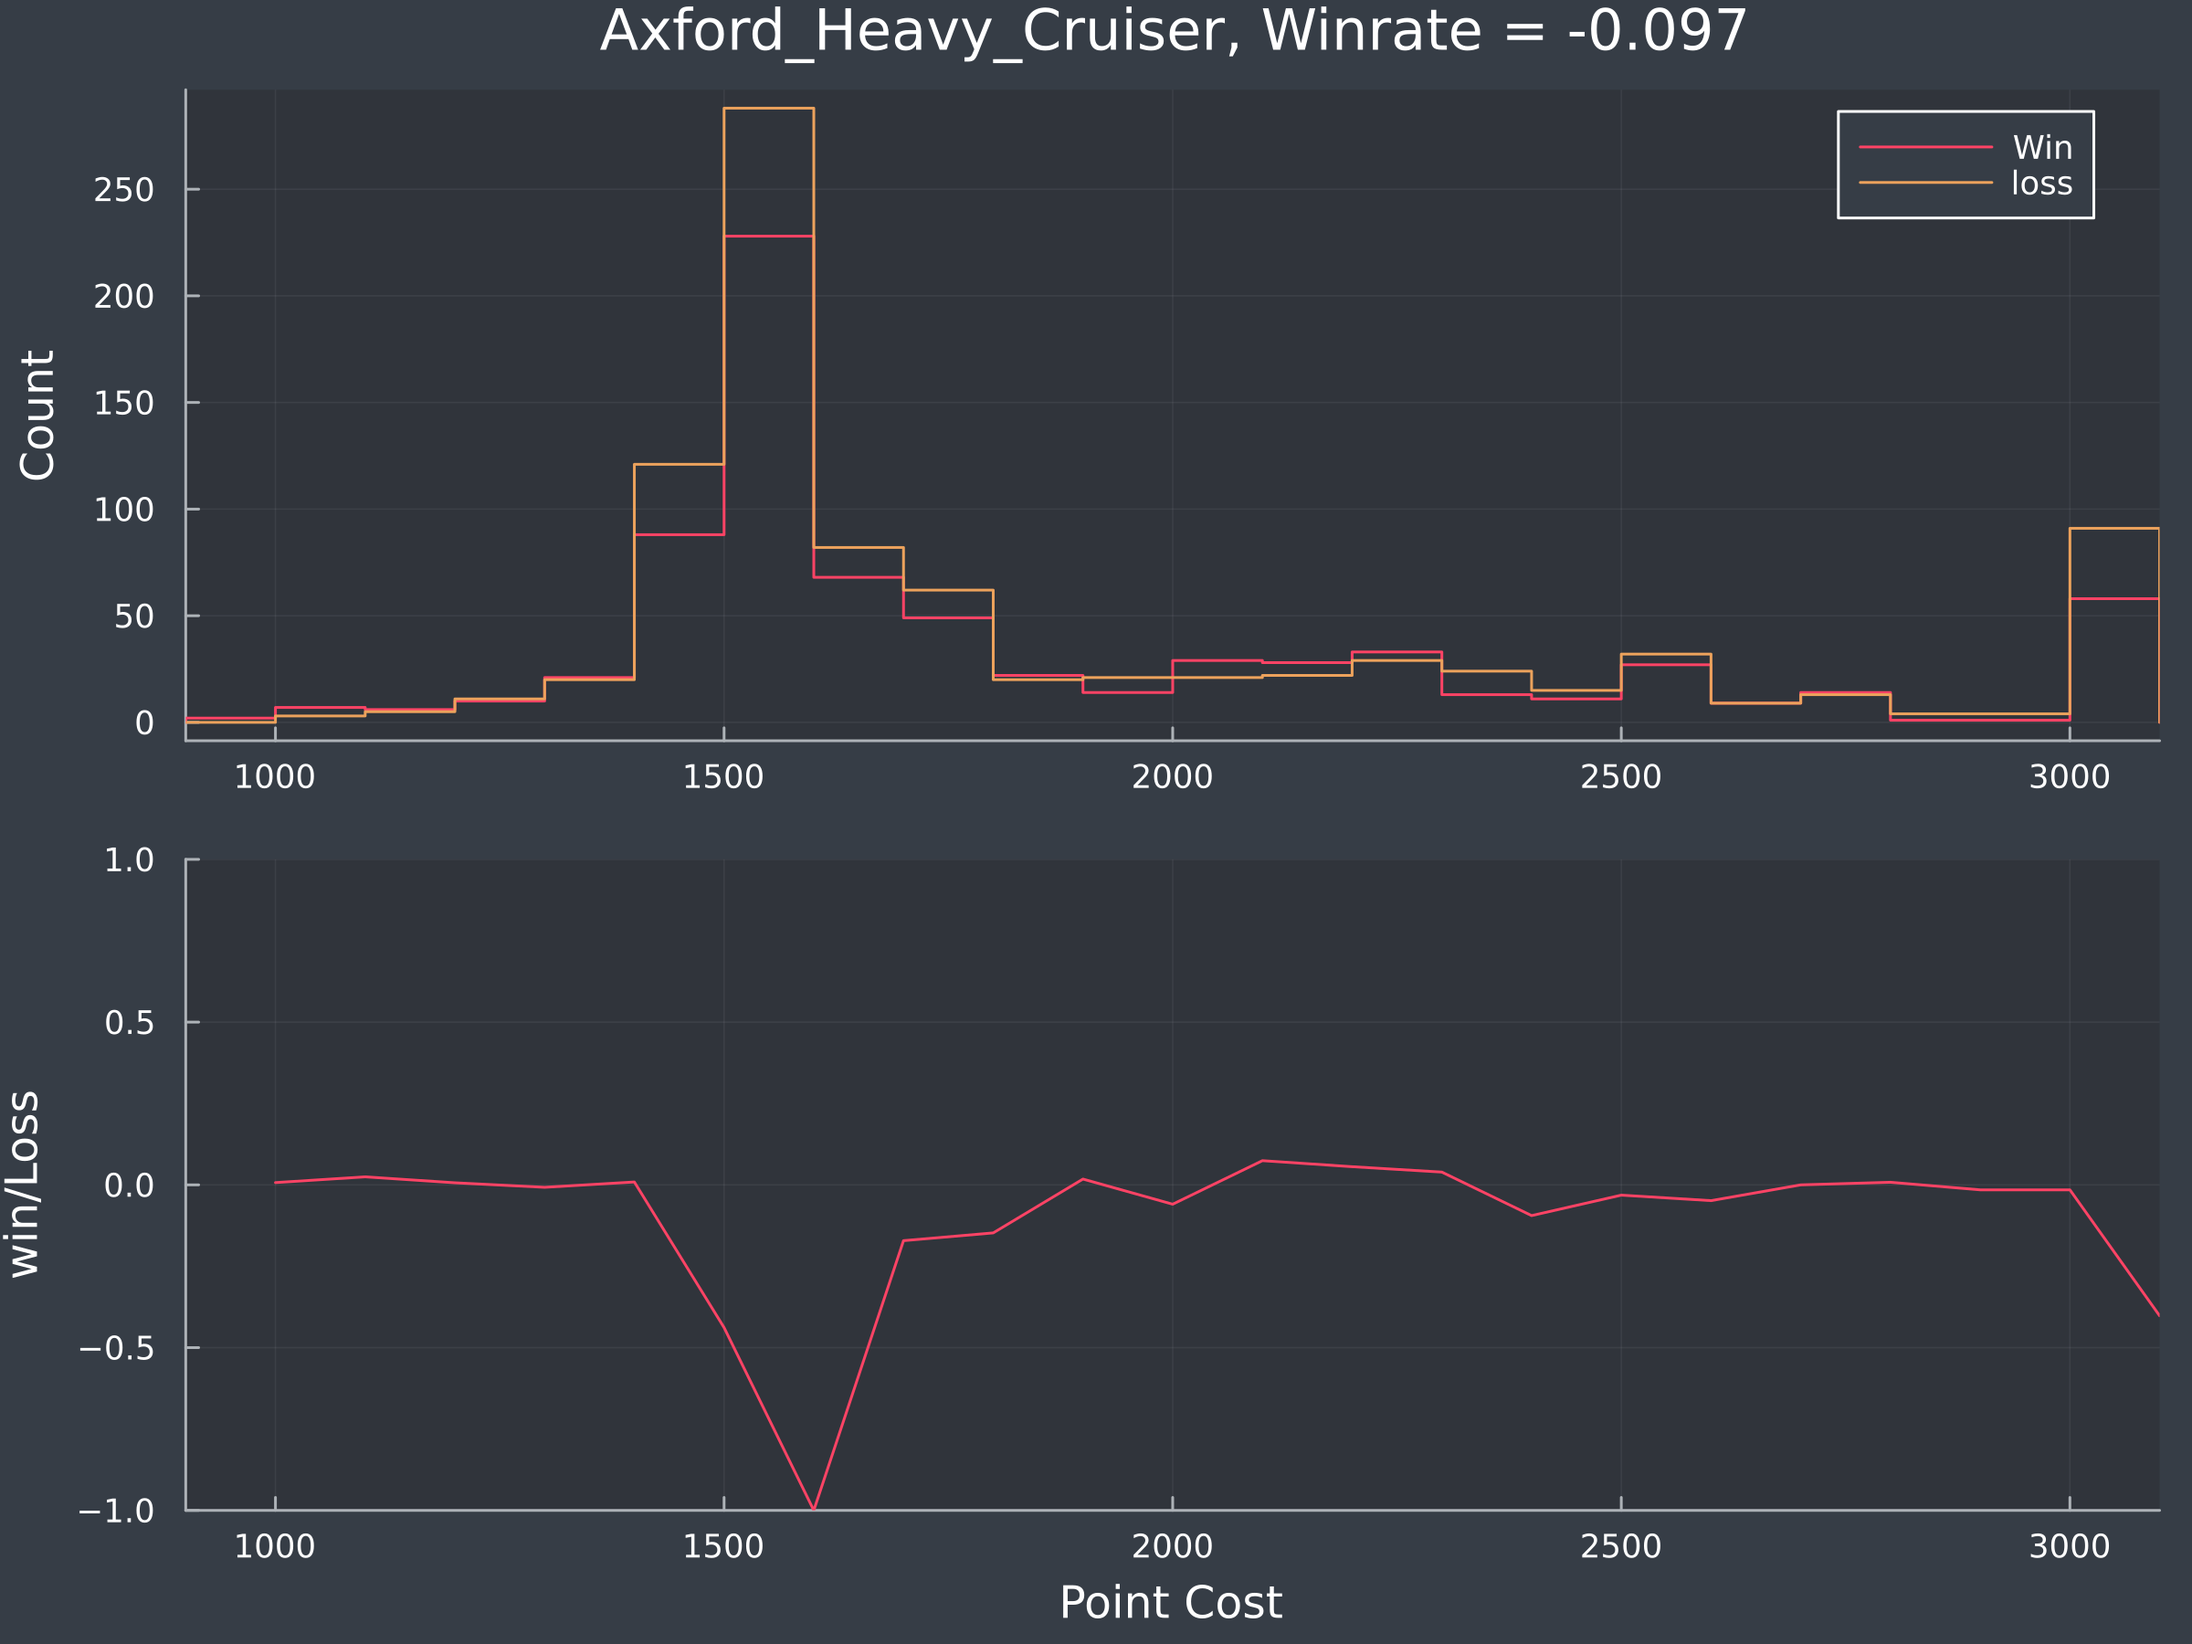
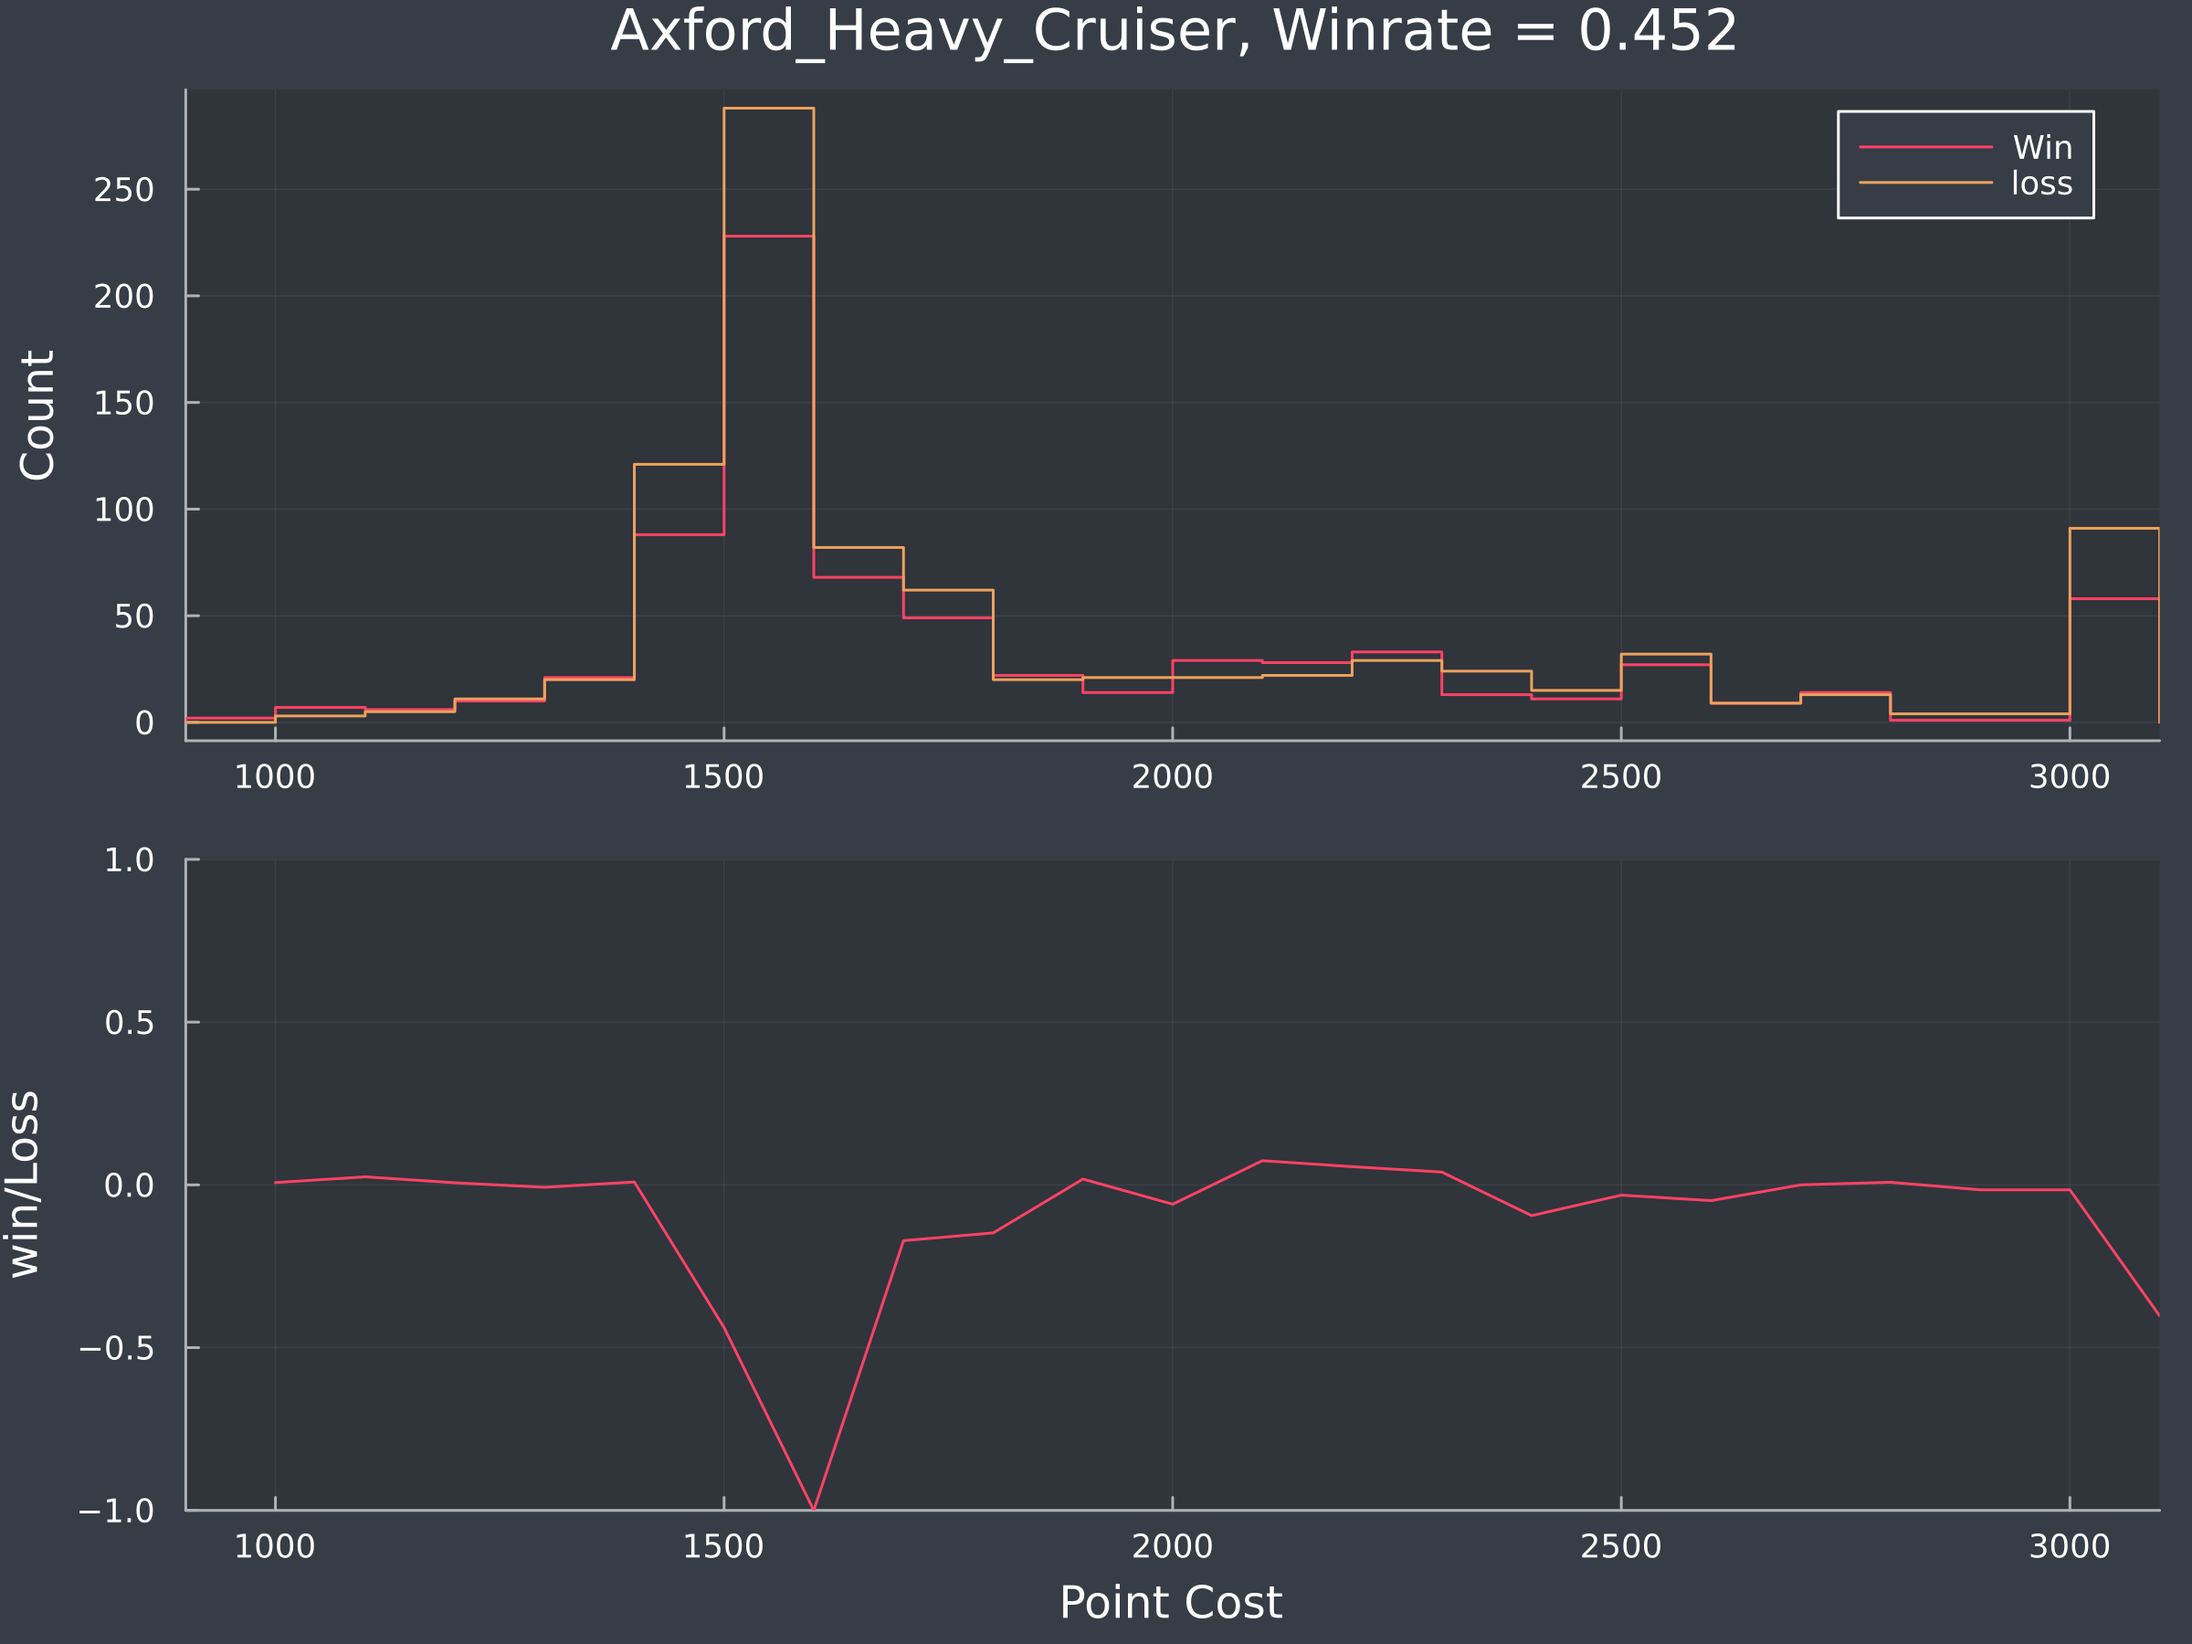
fixed winRate calculation

Changed region(s): [[0.2812, 0.0, 0.6875, 0.0311], [0.7188, 0.0, 0.8125, 0.0311]]

diff --git a/docs/hullPointDistribution-ANS.md b/docs/hullPointDistribution-ANS.md
@@ -20,7 +20,7 @@ Then there is measure I have tried to derive from the top chart of point viabili
 
 Becasue they are normalised to the hull, you shouldn't compare these across hulls. This is designed to be a measure of how viable each hull is in the unknown soup of whatever else is brought to the battlefield. 
 
-Finally, in the header, there is a winrate. I'm unsure if I should keep this in, as it is biased against the win rate with a slight tilt to OSP. I'm also unsure if it applies equally to smaller ships and bigger ships. Swarms that win games will push it up more than single ships that are equally effective. I've put it in for now, but I have mixed feelings and may take it out if I feel its misleading.  
+Finally, in the header, there is a winrate. This is the number of wins / number of games this hull has been in. 
 
 ### Point viability formula
 The formula I've used to calculate point viability is described below
